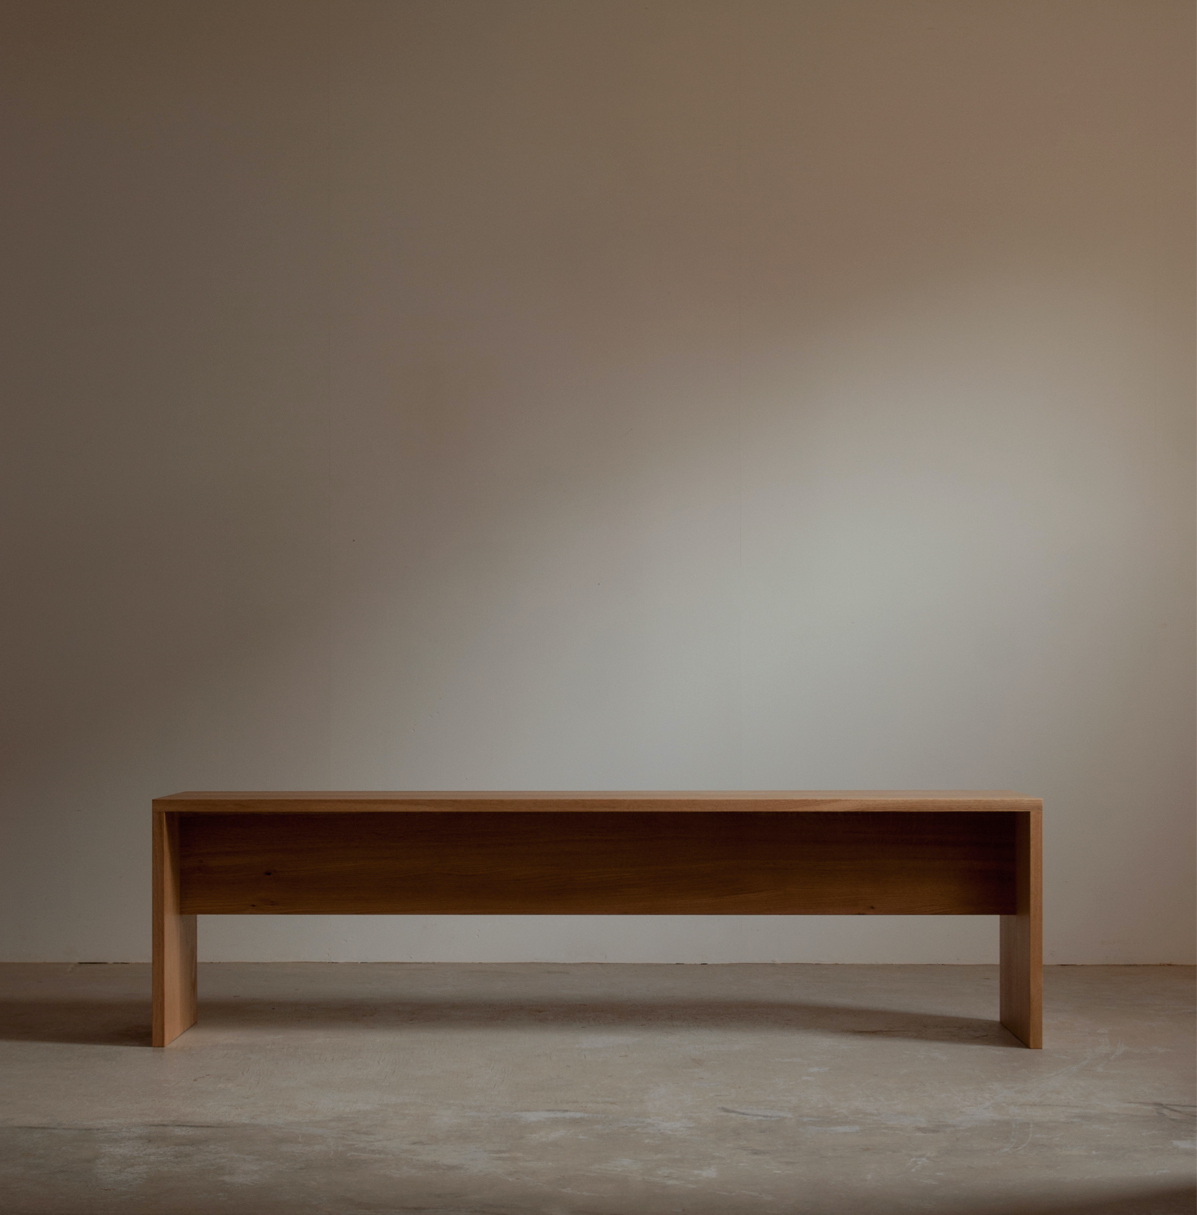
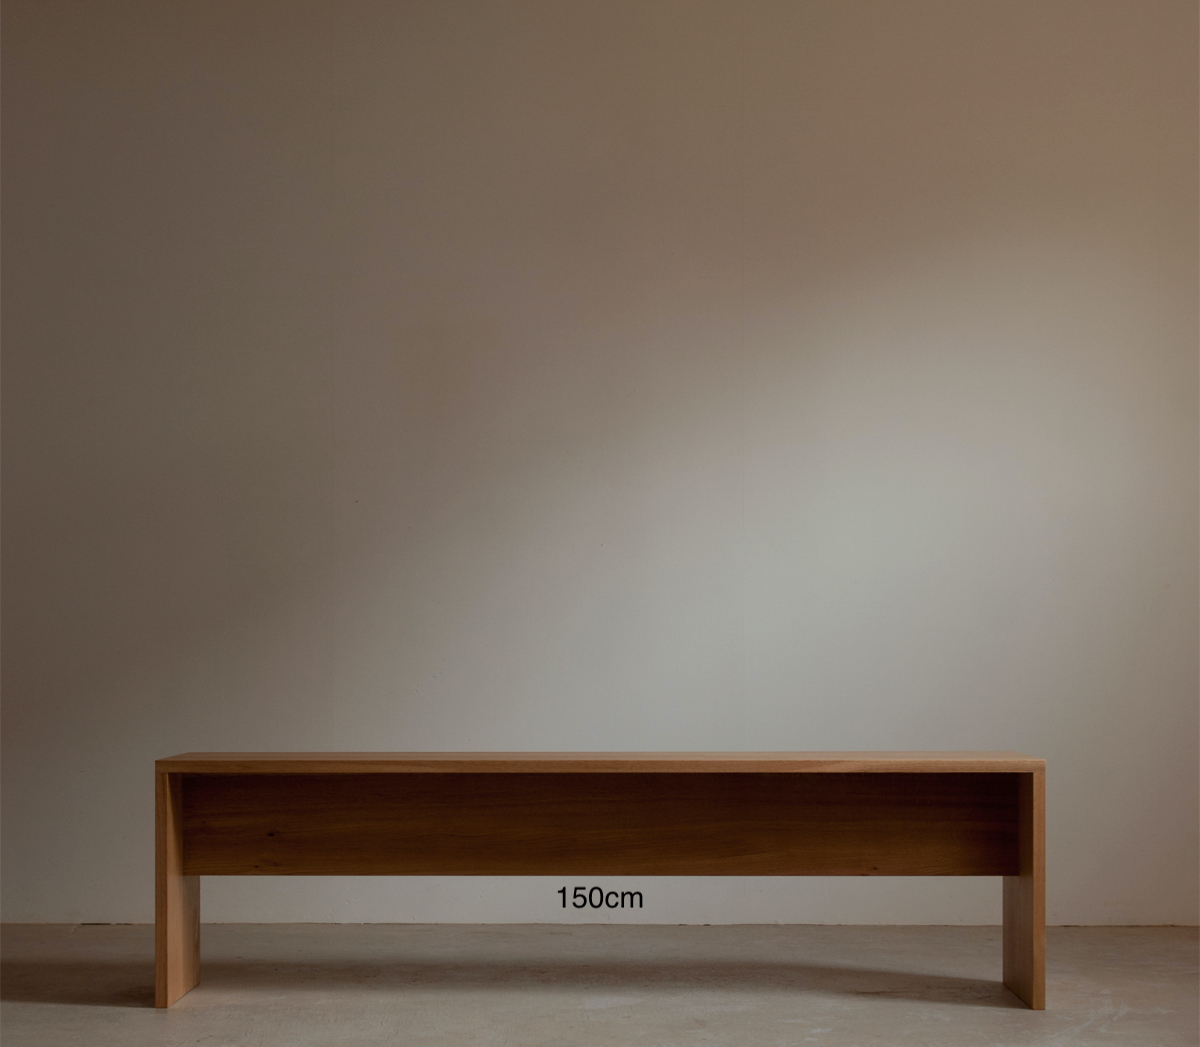
small 사이즈 전시 배경 추가

Changed region(s): [[0.0, 0.6418, 1.0, 1.0]]

diff --git a/client/src/Components/Art/ArtDetail.tsx b/client/src/Components/Art/ArtDetail.tsx
@@ -13,6 +13,7 @@ import LikeArt from './LikeArt'
 import PriceInfoTable from './PriceInfoTable'
 import { useCurrentUser } from '../../Hooks/User'
 import mediumBackground from '../../Images/medium-size-background.jpeg'
+import smallBackground from '../../Images/small-size-background.jpeg'
 import ShareButton from '../ShareButton'
 import TabPanel from '../TabPanel'
 import { debounce } from 'lodash'
@@ -160,12 +161,14 @@ const ArtDetail: FC<ArtDetailParams> = ({ artId }) => {
   const currentUser = useCurrentUser()
   const shareUrl = `${window.location.origin}/art/${artId}`
   const mediumBackgroundRealSize = 200 // 200cm
+  const smallBackgroundRealSize = 184 // 184cm
 
   const displayImageDiv = useRef<HTMLDivElement>(null)
   const [tabIndex, setTabIndex] = useState<number>(0)
   const [artSize, setArtSize] = useState({
     width: 0,
     height: 0,
+    size: 'SMALL',
   })
   const [representativeImgSize, setRepresentativeImgSize] = useState({
     width: 0,
@@ -179,10 +182,14 @@ const ArtDetail: FC<ArtDetailParams> = ({ artId }) => {
     onCompleted: (data) => {
       const { art } = data
       if (displayImageDiv.current) {
-        const pixelRatio = displayImageDiv.current.clientWidth / mediumBackgroundRealSize
+        const pixelRatio =
+          displayImageDiv.current.clientWidth /
+          (art.size === 'SMALL' ? smallBackgroundRealSize : mediumBackgroundRealSize)
+
         setArtSize({
           width: art.width,
           height: art.height,
+          size: art.size,
         })
         setRepresentativeImgSize({
           width: art.width * pixelRatio,
@@ -196,7 +203,10 @@ const ArtDetail: FC<ArtDetailParams> = ({ artId }) => {
   useEffect(() => {
     const handleResize = debounce(() => {
       if (displayImageDiv.current) {
-        const pixelRatio = displayImageDiv.current.clientWidth / mediumBackgroundRealSize
+        const pixelRatio =
+          displayImageDiv.current.clientWidth /
+          (artSize.size === 'SMALL' ? smallBackgroundRealSize : mediumBackgroundRealSize)
+
         setRepresentativeImgSize({
           width: artSize.width * pixelRatio,
           height: artSize.height * pixelRatio,
@@ -311,9 +321,13 @@ const ArtDetail: FC<ArtDetailParams> = ({ artId }) => {
       <div className={classes.tabPanel}>
         <TabPanel value={tabIndex} index={0}>
           <div className={classes.description}>{art.description}</div>
-          {art.size === 'MEDIUM' && (
+          {art.size !== 'LARGE' && (
             <div className={classes.displayImageWrapper} ref={displayImageDiv}>
-              <img className={classes.displayImage} src={mediumBackground} alt="전시 배경 이미지" />
+              <img
+                className={classes.displayImage}
+                src={art.size === 'SMALL' ? smallBackground : mediumBackground}
+                alt="전시 배경 이미지"
+              />
               <div className={classes.representativeImgWrapper}>
                 <img
                   className={classes.representativeImg}
